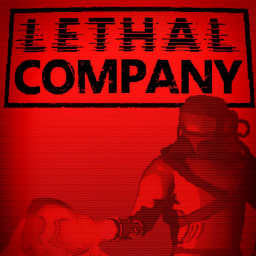
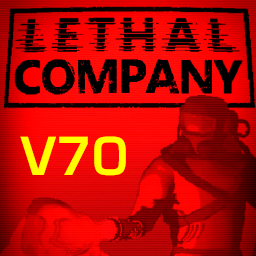
Bump v1.4.0

diff --git a/README.md b/README.md
@@ -3,6 +3,6 @@
 ![GitHub Downloads](https://img.shields.io/github/downloads/boxden/FlyoneCompany/total)
 ![GitHub Release](https://img.shields.io/github/v/release/boxden/FlyoneCompany)
 
-Modpack for Lethal Company v69
+Modpack for Lethal Company v70
 
-Profile code: `01972588-819f-e532-eb26-519548a26f6a`
+Profile code: `01972c13-412c-68a9-49ab-1f26a945a008`

diff --git a/CHANGELOG.md b/CHANGELOG.md
@@ -1,3 +1,16 @@
+## v1.4.0
+
+Support for version 70
+Most mods are functional.
+Some mods may not work correctly or may contain bugs.
+Stay tuned for upcoming updates.
+
+All mods updated to their latest versions.
+The following mods updated:
+
+- MoreCompany will be updated to: 1.11.1
+
+
 ## v1.3.12
 
 All mods updated to their latest versions.
